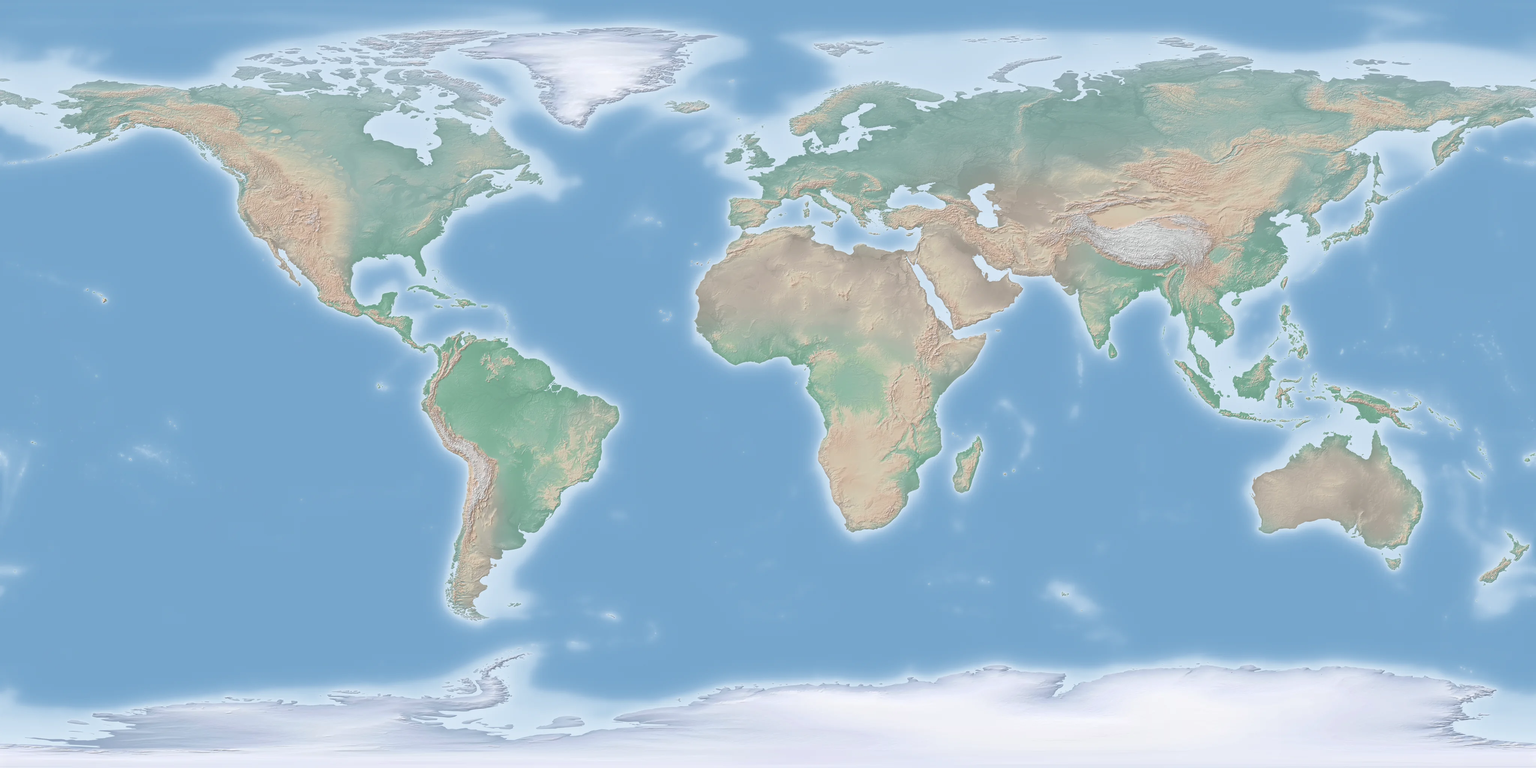
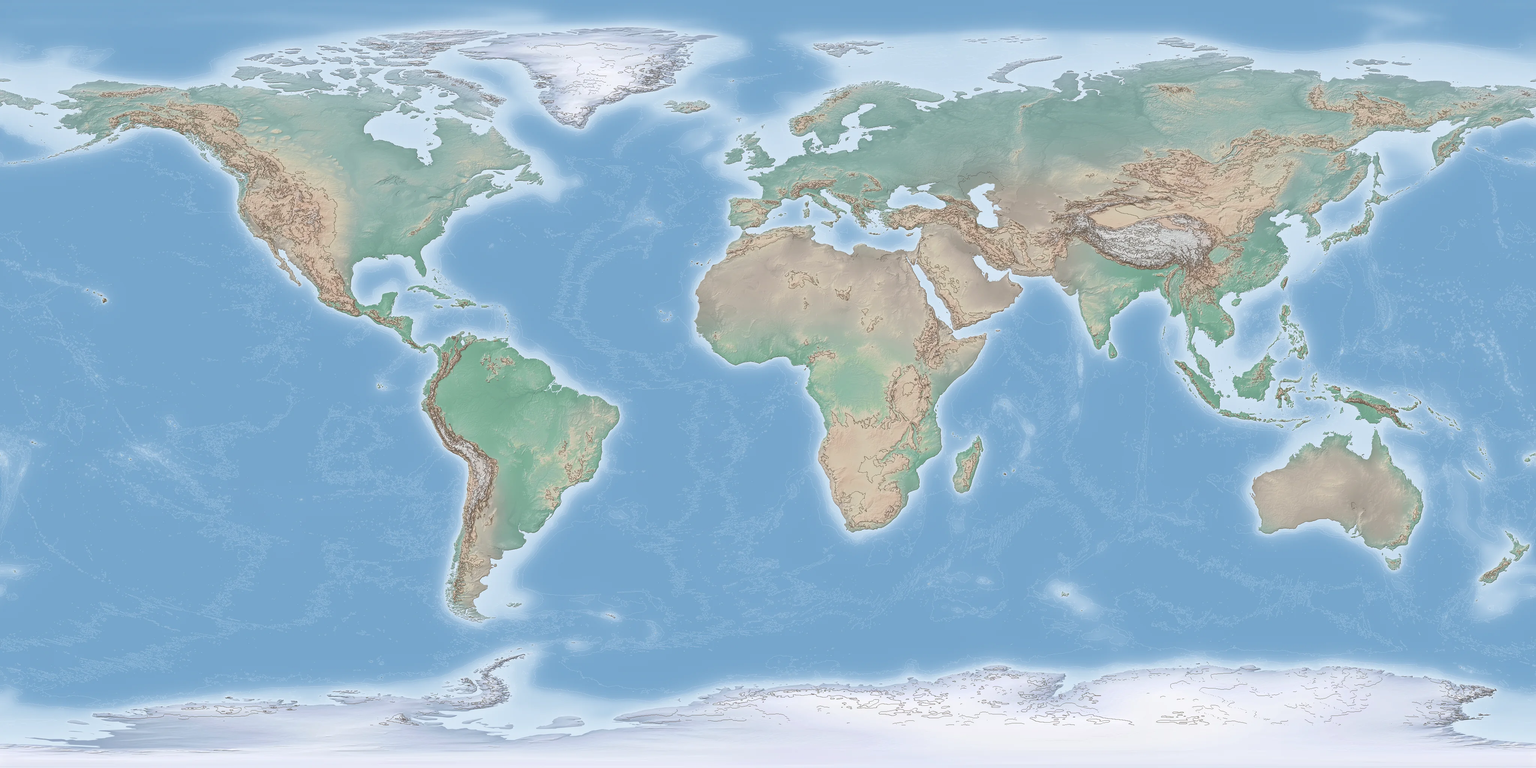
feat(layers): 高清贴图 + 等高线 + 图例改成色块直标名称
- 气候：WorldClim 2.1 5m（4320x2160）重算 Köppen，输出 4096x2048，
  用 NEAREST 放大保持分区边界锐利（原来 2048 + LANCZOS 被糊成一片）
- 地形：叠等高线。高程来自 Mapzen Terrarium 瓦片（AWS 公开，z=5 共 1024 张），
  重投影到等距柱状后按 8 条高程带取边界；1px 细线 + 0.55 对比，
  2px 会糊成黑块。极区（|lat|>80）不画，Terrarium 只到 ±85°，更靠极是钳位条纹
- 地形贴图 4096x2048 0.87MB（原来 4096x2048 无等高线 424KB）
- 图层贴图 URL 挂上 BUILD_TAG：OBS 有 7 天缓存，不换 URL 会一直用旧图
- 图例改版：宽度 268、字号加大，每个色块后面直接跟中文名（雨林/季风/…），
  不再是一排色块 + 一行小字说明
- build 2026-11-10-AA → 2026-11-10-AB

diff --git a/index.html b/index.html
@@ -3,7 +3,7 @@
 <head>
 <meta charset="utf-8">
 <meta name="viewport" content="width=device-width, initial-scale=1, viewport-fit=cover">
-<meta name="build" content="2026-11-10-AA">
+<meta name="build" content="2026-11-10-AB">
 <link rel="icon" type="image/png" href="assets/favicon.png">
 <link rel="apple-touch-icon" href="assets/favicon.png">
 <!-- OBS 是图片/音频/贴图的唯一源站。提早点亮 DNS 和 TLS：
@@ -1479,55 +1479,58 @@ body.labels-canvas .mlabel{color:transparent!important;-webkit-text-stroke:0!imp
    半透明玻璃底，压在地球上但不抢画面。 */
 #layer-legend{
   position:fixed;right:18px;bottom:34px;z-index:36;
-  width:236px;padding:12px 14px 11px;border-radius:13px;
-  background:rgba(9,18,31,.80);
-  border:1px solid rgba(140,175,220,.22);
-  box-shadow:0 14px 34px rgba(0,0,0,.45);
+  width:268px;padding:12px 14px 11px;border-radius:13px;
+  background:rgba(7,15,27,.86);
+  border:1px solid rgba(150,185,230,.26);
+  box-shadow:0 14px 34px rgba(0,0,0,.5);
   backdrop-filter:blur(12px);
-  color:rgba(212,230,250,.9);font-size:11.5px;line-height:1.5;
+  color:rgba(226,240,255,.94);font-size:12px;line-height:1.5;
   opacity:0;transform:translateY(10px);pointer-events:none;
   transition:opacity .28s ease,transform .28s ease;
 }
 #layer-legend.on{opacity:1;transform:none;pointer-events:auto}
-#layer-legend .lg-head{display:flex;align-items:center;gap:8px;margin-bottom:10px}
+#layer-legend .lg-head{display:flex;align-items:center;gap:8px;margin-bottom:9px}
 #layer-legend .lg-title{
-  font-size:12.5px;font-weight:600;letter-spacing:.03em;color:#eef6ff;
+  font-size:13.5px;font-weight:600;letter-spacing:.04em;color:#f2f8ff;
 }
 #layer-legend .lg-close{
   margin-left:auto;width:20px;height:20px;padding:0;border:0;border-radius:50%;
-  background:transparent;color:rgba(170,200,230,.6);cursor:pointer;
-  font-size:15px;line-height:1;display:flex;align-items:center;justify-content:center;
+  background:transparent;color:rgba(180,208,236,.7);cursor:pointer;
+  font-size:16px;line-height:1;display:flex;align-items:center;justify-content:center;
 }
-#layer-legend .lg-close:hover{background:rgba(150,190,235,.14);color:#eaf3ff}
-#layer-legend .lg-row{display:flex;align-items:center;gap:8px;margin:6px 0 2px}
+#layer-legend .lg-close:hover{background:rgba(150,190,235,.16);color:#fff}
+/* 一行 = 组名 + 该组所有色块（每个色块后面直接跟名字，扫一眼就能对上） */
+#layer-legend .lg-line{display:flex;align-items:flex-start;gap:8px;margin:5px 0}
 #layer-legend .lg-key{
-  flex:0 0 42px;text-align:right;color:rgba(190,214,240,.78);
-  font-size:11px;letter-spacing:.02em;
+  flex:0 0 40px;padding-top:1px;text-align:right;
+  color:rgba(196,220,246,.8);font-size:11.5px;letter-spacing:.02em;
 }
-#layer-legend .lg-chips{display:flex;gap:3px}
-#layer-legend .lg-chips i{
-  display:block;width:15px;height:10px;border-radius:2.5px;
-  box-shadow:inset 0 0 0 1px rgba(0,0,0,.18);
+#layer-legend .lg-grid{flex:1;display:flex;flex-wrap:wrap;gap:3px 9px}
+#layer-legend .lg-item{
+  display:inline-flex;align-items:center;gap:4px;
+  font-size:11.5px;color:rgba(232,244,255,.92);white-space:nowrap;
 }
-#layer-legend .lg-note{
-  margin:2px 0 0 50px;color:rgba(160,190,220,.55);font-size:10px;
+#layer-legend .lg-item i{
+  display:block;width:12px;height:12px;border-radius:2.5px;
+  box-shadow:inset 0 0 0 1px rgba(0,0,0,.28), 0 0 0 1px rgba(255,255,255,.06);
 }
 #layer-legend .lg-band{
-  height:10px;margin:4px 0 5px;border-radius:3px;
-  box-shadow:inset 0 0 0 1px rgba(0,0,0,.2);
+  height:12px;margin:5px 0 6px;border-radius:3px;
+  box-shadow:inset 0 0 0 1px rgba(0,0,0,.28);
 }
 #layer-legend .lg-ticks{
   display:flex;justify-content:space-between;
-  color:rgba(160,190,220,.6);font-size:9.5px;letter-spacing:.02em;
+  color:rgba(190,214,240,.78);font-size:10.5px;letter-spacing:.02em;
 }
 #layer-legend .lg-src{
-  margin-top:9px;padding-top:8px;border-top:1px solid rgba(140,175,220,.14);
-  color:rgba(150,180,212,.5);font-size:9.5px;line-height:1.45;
+  margin-top:9px;padding-top:8px;border-top:1px solid rgba(150,185,230,.16);
+  color:rgba(164,192,220,.62);font-size:10px;line-height:1.5;
 }
 @media (max-width:760px){
-  #layer-legend{right:10px;bottom:10px;width:200px;padding:10px 11px 9px;font-size:11px}
-  #layer-legend .lg-key{flex-basis:36px}
-  #layer-legend .lg-chips i{width:13px;height:9px}
+  #layer-legend{right:10px;bottom:24px;width:232px;padding:10px 11px 9px;font-size:11.5px}
+  #layer-legend .lg-key{flex-basis:34px;font-size:11px}
+  #layer-legend .lg-item{font-size:11px}
+  #layer-legend .lg-item i{width:11px;height:11px}
 }
 
 /* 浅底上的顶栏文字要转深色，否则品牌名是一块白字浮在米白上 */
@@ -7034,11 +7037,11 @@ body.labels-canvas .mlabel{color:transparent!important;-webkit-text-stroke:0!imp
         tex: 'climate.webp',
         src: 'Köppen 分类 · WorldClim 2.1 生物气候变量',
         rows: [
-          ['热带', ['#1a6b3c', '#2f8a4f', '#a3b84a'], '雨林 / 季风 / 草原'],
-          ['干旱', ['#dfae63', '#d6c39a', '#d29a58', '#bfa87d'], '热沙漠 / 冷沙漠 / 热草原 / 冷草原'],
-          ['温带', ['#b8a24b', '#7ab273', '#6aa79a'], '地中海 / 湿润 / 海洋性'],
-          ['寒温带', ['#5b90a6', '#4a7a9e'], '大陆性 / 亚寒带'],
-          ['极地', ['#9fa9b5', '#dfe7ef'], '苔原 / 冰盖']
+          ['热带', [['#1a6b3c', '雨林'], ['#2f8a4f', '季风'], ['#a3b84a', '草原']]],
+          ['干旱', [['#dfae63', '热沙漠'], ['#d6c39a', '冷沙漠'], ['#d29a58', '热草原'], ['#bfa87d', '冷草原']]],
+          ['温带', [['#b8a24b', '地中海'], ['#7ab273', '湿润'], ['#6aa79a', '海洋性']]],
+          ['寒温带', [['#5b90a6', '大陆性'], ['#4a7a9e', '亚寒带']]],
+          ['极地', [['#9fa9b5', '苔原'], ['#dfe7ef', '冰盖']]]
         ]
       },
       terrain: {
@@ -7056,9 +7059,12 @@ body.labels-canvas .mlabel{color:transparent!important;-webkit-text-stroke:0!imp
       if (lgTex[name]) { cb(lgTex[name]); return; }
       var loader = new THREE.TextureLoader();
       var i = 0;
+      /* 必须带版本号：OBS 上的对象带 7 天 Cache-Control，换了贴图不换 URL
+         的话浏览器一直用旧的（用户会以为"改了没生效"）。 */
+      var q = BUILD_TAG ? ('?v=' + encodeURIComponent(BUILD_TAG)) : '';
       (function next() {
         if (i >= TEX_BASES.length) { cb(null); return; }
-        loader.load(TEX_BASES[i++] + LG[name].tex, function (t) {
+        loader.load(TEX_BASES[i++] + LG[name].tex + q, function (t) {
           t.anisotropy = 4;
           t.generateMipmaps = true;
           t.minFilter = THREE.LinearMipmapLinearFilter;
@@ -7091,10 +7097,10 @@ body.labels-canvas .mlabel{color:transparent!important;-webkit-text-stroke:0!imp
       h += '<div class="lg-head"><span class="lg-title">' + cfg.title + '</span>' +
            '<button class="lg-close" type="button" aria-label="关闭图例">×</button></div>';
       (cfg.rows || []).forEach(function (r) {
-        h += '<div class="lg-row"><span class="lg-key">' + r[0] + '</span><span class="lg-chips">' +
-             r[1].map(function (c) { return '<i style="background:' + c + '"></i>'; }).join('') +
-             '</span></div>';
-        h += '<div class="lg-note">' + r[2] + '</div>';
+        h += '<div class="lg-line"><span class="lg-key">' + r[0] + '</span><span class="lg-grid">' +
+             r[1].map(function (x) {
+               return '<span class="lg-item"><i style="background:' + x[0] + '"></i>' + x[1] + '</span>';
+             }).join('') + '</span></div>';
       });
       if (cfg.band) {
         h += '<div class="lg-band" style="background:linear-gradient(90deg,' + cfg.band.join(',') + ')"></div>';
